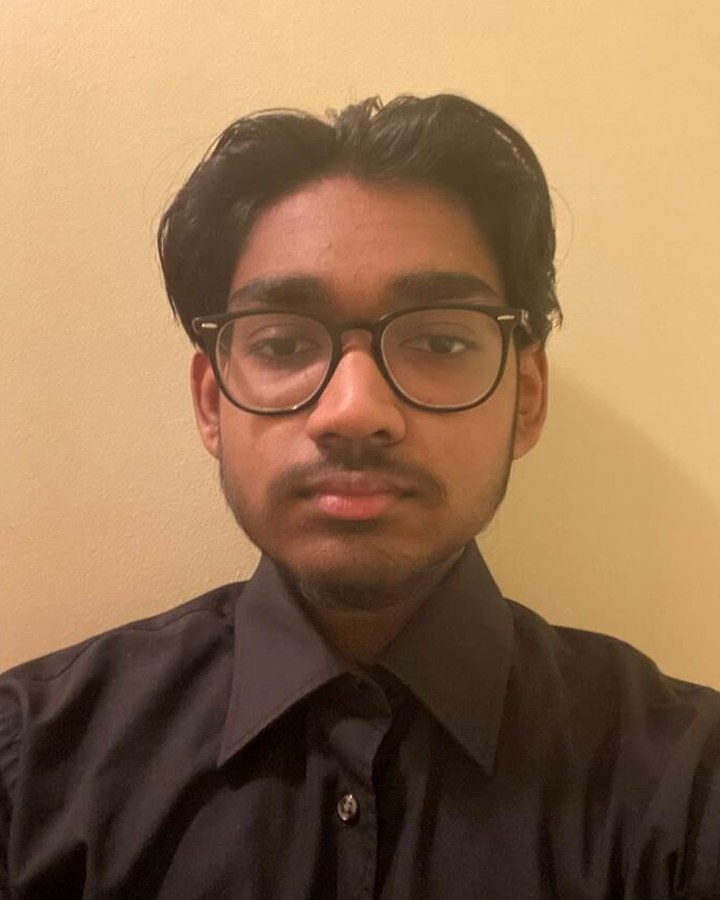
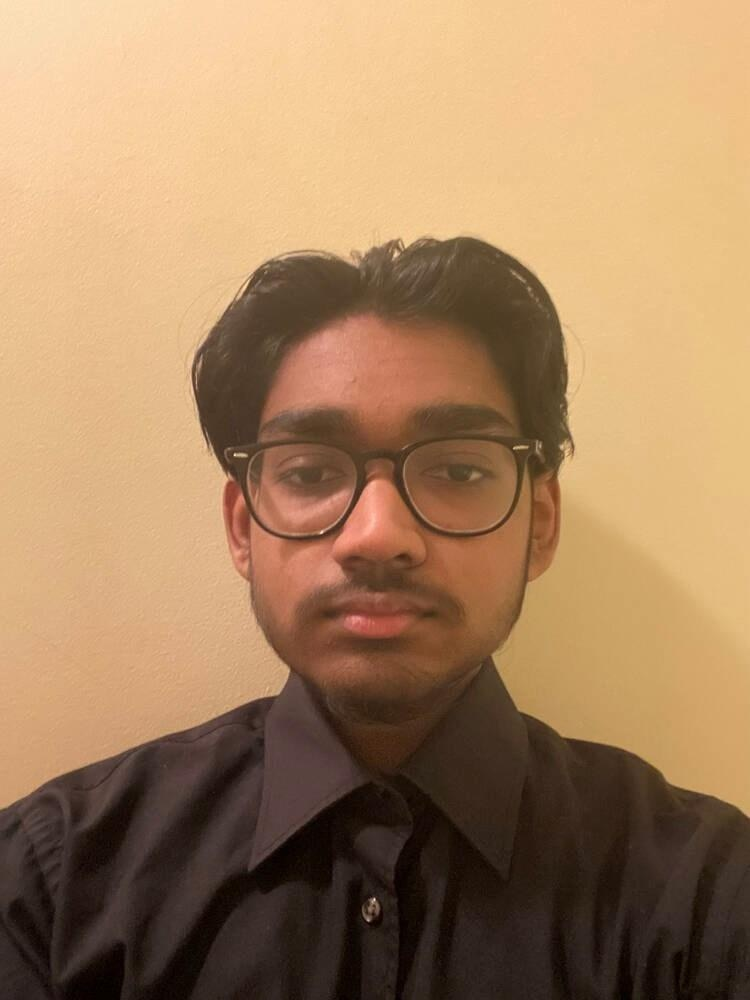
FAQ: remove redundant hairline against Contact; Team: drop face-crop pipeline
FAQ's last accordion item drew its own border-b directly above Contact's
own rule-t, doubling the line at that boundary. Switched to divide-y on
the parent so dividers only appear between items, not after the last one.

Team photos were being pre-cropped through a custom OpenCV face-detection
pipeline before being saved to /public. Replaced with plain resized (not
cropped) source images and standard CSS object-cover/object-top framing
inside the existing fixed-size photo box — no per-image pixel math.

Claude-Session: https://claude.ai/code/session_01WdzymNgUgeGhBk5fQWDJVs

diff --git a/components/sections/team/default.tsx b/components/sections/team/default.tsx
@@ -20,7 +20,7 @@ export default function Team() {
         lead="Blundell Analytics is deliberately small. The people who build the work are the people who present it."
       />
 
-      <div className="rail rule-t grid grid-cols-1 gap-y-10 py-11 sm:grid-cols-3 sm:gap-x-6 lg:py-14">
+      <div className="rail grid grid-cols-1 gap-y-10 py-11 sm:grid-cols-3 sm:gap-x-6 lg:py-14">
         {PEOPLE.map((person, i) => (
           <motion.article
             key={person.name}
@@ -39,9 +39,7 @@ export default function Team() {
                 src={person.photo}
                 alt={person.name}
                 loading="lazy"
-                width={720}
-                height={900}
-                className="size-full object-cover grayscale transition-all duration-700 hover:grayscale-0"
+                className="size-full object-cover object-top grayscale transition-all duration-700 hover:grayscale-0"
               />
             </div>
 

diff --git a/components/sections/faq/default.tsx b/components/sections/faq/default.tsx
@@ -32,11 +32,11 @@ export default function Faq() {
     <section id="faq" className="bg-band relative z-10">
       <SectionHeader label="Questions" title="What clubs ask us first." />
 
-      <div className="rail">
+      <div className="rail divide-hairline divide-y">
         {ITEMS.map((item, i) => {
           const isOpen = open === i;
           return (
-            <div key={item.q} className="border-hairline border-b">
+            <div key={item.q}>
               <button
                 type="button"
                 onClick={() => setOpen(isOpen ? null : i)}
